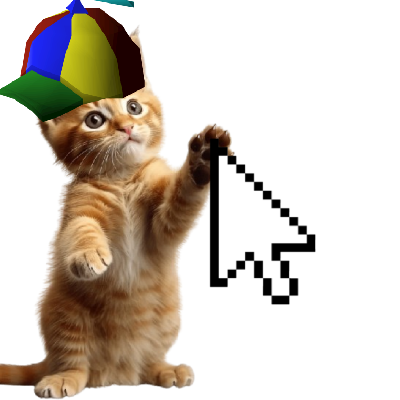
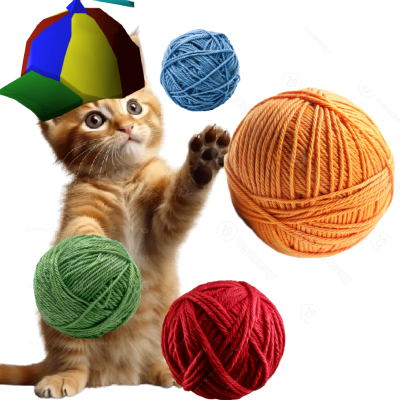
Small game... Nothing fancy
Added a game called PawGame, just click the yarn and you will get points based on the size of the ball.
This was just to make something today while brainstorming some ideas

diff --git a/js/clicker.js b/js/clicker.js
@@ -1,0 +1,91 @@
+const pawGameScreen = document.getElementById('pawGame');
+const pawGameScreenClose = document.getElementById('pawGameClose');
+
+const gameWindow = document.getElementById('pawGameContent');
+const scoreText = document.getElementById('pawGameScore');
+
+const yarnColors = ["blue", "gray", "green", "orange", "red"];
+
+let score = parseFloat(localStorage.getItem("pawGameScore")) || 0;
+scoreText.innerHTML = `Total Yarn: ${score.toFixed(1)}`;
+
+const playGameButton = document.getElementById('pawGameStart');;
+let isGamePlaying = false;
+
+playGameButton.addEventListener("click", () => {
+    isGamePlaying = true;
+    playGameButton.style.display = "none";
+    yarnColors.forEach(yarnColor => {
+        for (let i = 0; i < 5; i++) {
+            const yarnImg = gameWindow.appendChild(document.createElement("img"));
+            
+            yarnImg.style.position = "absolute";
+            yarnImg.src = `img/yarn/${yarnColor}.png`;
+            yarnImg.style.visibility = "hidden";
+
+            switch(yarnColor) {
+                case "blue":
+                    yarnImg.style.width = "50p  Q`1S6x";
+                    yarnImg.style.height = "50px";
+                    yarnImg.dataset.mult = 1;
+                    break;
+                case "gray":
+                    yarnImg.style.width = "40px";
+                    yarnImg.style.height = "40px";
+                    yarnImg.dataset.mult = 1.7;
+                    break;
+                case "green":
+                    yarnImg.style.width = "25px";
+                    yarnImg.style.height = "25px";
+                    yarnImg.dataset.mult = 2;
+                    break;
+                case "orange":
+                    yarnImg.style.width = "65px";
+                    yarnImg.style.height = "65px";
+                    yarnImg.dataset.mult = 0.6;
+                    break;
+                case "red":
+                    yarnImg.style.width = "10px";
+                    yarnImg.style.height = "10px";
+                    yarnImg.dataset.mult = 10;
+                    break;
+            }
+
+            yarnImg.addEventListener("click", () => scoring(yarnImg));
+            spawnYarn(yarnImg);
+            setInterval(spawnYarn, 5000, yarnImg);
+        }
+    });
+});
+
+function spawnYarn(element) {
+
+    if (isGamePlaying) {
+        const x = Math.random() * (gameWindow.clientWidth - element.clientWidth);
+        const y = Math.random() * (gameWindow.clientHeight - element.clientHeight);
+    
+        element.style.visibility = "visible";
+        element.style.left = x + "px";
+        element.style.top = y + "px";
+    } else {
+
+    }
+}
+
+function scoring(element) {
+    const multiplier = element.dataset.mult;
+
+    element.style.visibility = "hidden";
+    score += 1 * multiplier;
+    scoreText.innerHTML = `Total Yarn: ${score.toFixed(1)}`;
+    localStorage.setItem("pawGameScore", score);
+}
+
+pawGameScreenClose.addEventListener("click", () => {
+    closeWindow(pawGameScreen);
+    isGamePlaying = false;
+    playGameButton.style.display = "block";
+
+    gameWindow.querySelectorAll("img").forEach(img => img.remove(img));
+});
+initializeWindow("pawGame");

diff --git a/style.css b/style.css
@@ -441,38 +441,44 @@ input[name="timeFormat"] {
 }
 
 #pawGameContent {
+    position: relative;
     margin-top: 12px;
-    display: flex;
     height: 75%;
+    user-select: none;
+    border-radius: 12px;
 }
 
-#pawGameplay {
-    width: 100%;
-    display: flex;
-    justify-content: center;
-    align-items: center;
-    border: solid;
-    border-right: none;
+#pawGameContent img {
+    cursor: pointer;
 }
 
-#pawSideBar {
-    border: solid;
-    width: 45%;
-}
-
-#pawSideBar button {
-    width: 100%;
-    height: 40px;
+#pawGameContent img:active {
+    transform: scale(90%);
 }
 
 #pawGameStats {
-    display: flex; 
-    width: 100%; 
-    justify-content: center;
+    text-align: center;
+    font-weight: bold;
 }
 
-#pawGameStats p {
-    margin: 12px;
+#pawGameStart {
+    position: fixed; 
+    top: calc(50% - 25px); 
+    left: calc(50% - 50px); 
+    width: 100px; 
+    height: 100px; 
+    background: rgba(255, 192, 203, 0.513); 
+    border: solid; 
+    border-radius: 30px;
+    cursor: pointer;
+}
+
+#pawGameStart:hover {
+    transform: scale(103%);
+}
+
+#pawGameStart:active {
+    transform: scale(100%);
 }
 
 .upgradeTitle {

diff --git a/index.html b/index.html
@@ -17,7 +17,7 @@
         - DONE! PawPaint (Paint app)
         - DONE! (kinda.. :( ) PawBrowser ?? 
         - PawCmd (Cmd with a few commands)
-        - Cat game?
+        - DONE! Cat game?
         - Pet on desktop?
     -->
 
@@ -261,26 +261,19 @@
         </div>
     </div>
 
-    <!-- Paw Gaem -->
-     <div class="window" id="pawGame" style="display: block;">
+    <!-- Paw Game -->
+     <div class="window" id="pawGame" style="display: none;">
         <div class="windowHeader" id="pawGameHeader">
             <p style="margin-left: 10px;"><b>pawGame</b></p>
             <button class="closeButton" id="pawGameClose" style="margin-right: 10px;"></button>
         </div>
         
         <div id="pawGameStats">
-            <p>Power: 0</p>
-            <p>Power Per Second: 0</p>
+            <p id="pawGameScore">Total yarn: 0</p>
         </div>
 
-        <div id="pawGameContent">
-            
-            <div id="pawGameplay">
-                <img id="pawGameClicker" src="img/figma/kitten.png" width="50%" height="75%">
-            </div>
-            <div id="pawSideBar">
-                <button><span class="upgradeTitle">Kitten power</span><br><span class="upgradeDescription">+1 PPS | Cost: <span class="upgradeCost">0</span> </span></button>
-            </div>
+        <div id="pawGameContent" style="border: solid;">
+            <button id="pawGameStart"> Start </button>
         </div>
 
     </div>
@@ -288,12 +281,12 @@
     <!-- Desktop Icons -->
     <div id="desktopApps" style="padding-top: 100px; padding-left: 20px; user-select: none;">
 
-        <div class="icon" onclick="handleIconTap(this, pawConfig)" style="width: 80px;">
+        <div class="icon" onclick="handleIconTap(this, pawConfigScreen)" style="width: 80px;">
             <img src="img/appIcons/PawConfig.png" width="64px" style="border-radius: 12px;">
             <p style="margin: 0px;">Paw Config</p>
         </div>
         
-        <div class="icon" onclick="handleIconTap(this, pawNet)" style="width: 80px;">
+        <div class="icon" onclick="handleIconTap(this, pawNetScreen)" style="width: 80px;">
             <img src="img/appIcons/PawNet.png" width="64px" style="border-radius: 12px;">
             <p style="margin: 0px;">Paw Net</p>
         </div>
@@ -383,6 +376,7 @@
     <script src="js/paint.js"></script>
     <script src="js/folder.js"></script>
     <script src="js/browser.js"></script>
+    <script src="js/clicker.js"></script>
 
 </body>
 </html>